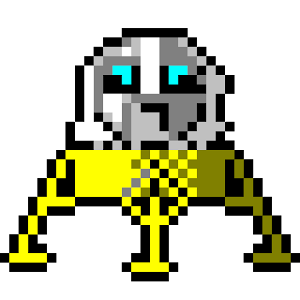
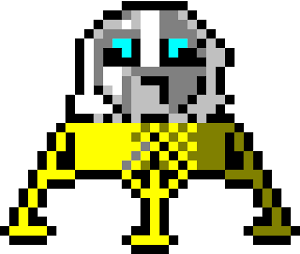
Change to white lander, add collision with bottom of canvas

diff --git a/lib/lander.js b/lib/lander.js
@@ -1,11 +1,14 @@
 function Lander(x, y, ctx) {
   this.x = x
   this.y = y
-  this.width = 20
-  this.height = 20
+  this.width = 30
+  this.height = 30
   this.ctx = ctx
   this.dx = 0
   this.dy = 0
+  this.gravitationalConstant = 0.005
+  this.propulsionConstant = 0.01
+  this.landed = false
   this.fuelAmount = 1000
   this.rotationAmount = 0
   this.img = this.getLanderImage()
@@ -13,7 +16,7 @@ function Lander(x, y, ctx) {
 
 Lander.prototype.getLanderImage = function(){
   var image = new Image()
-  image.src = 'img/lander.png'
+  image.src = 'img/lander-white.png'
   return image
 }
 
@@ -27,20 +30,19 @@ Lander.prototype.draw = function(){
 }
 
 Lander.prototype.move = function(activeControls){
-  this.moveFromGravity()
+  if (!this.landed) this.moveFromGravity()
   this.rotate(activeControls)
   this.moveFromPropulsion(activeControls)
 }
 
 Lander.prototype.moveFromGravity = function(){
-  this.dy += 0.01
-  this.y += this.dy
+  this.dy += this.gravitationalConstant
 }
 
 Lander.prototype.moveFromPropulsion = function(activeControls){
   if (activeControls.launch) {
-    this.dy -= 0.03 * Math.cos(this.rotationAmount * (Math.PI / 180))
-    this.dx += 0.03 * Math.sin(this.rotationAmount * (Math.PI / 180))
+    this.dy -= this.propulsionConstant * Math.cos(this.rotationAmount * (Math.PI / 180))
+    this.dx += this.propulsionConstant * Math.sin(this.rotationAmount * (Math.PI / 180))
     this.depleteFuel()
   }
   this.y += this.dy

diff --git a/lib/collisions.js b/lib/collisions.js
@@ -1,9 +1,19 @@
-function Collisions(lander){
+function Collisions(canvas, lander){
+  this.canvas = canvas
   this.lander = lander
 }
 
 Collisions.prototype.testForCollisions = function(){
-  console.log("Testing...")
+  this.testLanding()
+}
+
+Collisions.prototype.testLanding = function(){
+  if (this.lander.y + this.lander.height/2 > this.canvas.height) {
+    this.lander.landed = true
+    this.lander.dy = 0
+    this.lander.dx = 0
+    console.log("You landed.")
+  }
 }
 
 module.exports = Collisions

diff --git a/lib/index.js b/lib/index.js
@@ -8,7 +8,7 @@ var ctx = canvas.getContext('2d')
 
 var userControls = new UserControls()
 var lander = new Lander(50, 50, ctx)
-var collisions = new Collisions(lander)
+var collisions = new Collisions(canvas, lander)
 var world = new World(canvas, ctx, userControls, lander, collisions)
 
 world.runAnimationLoop()

diff --git a/index.html b/index.html
@@ -6,7 +6,7 @@
   <link rel="stylesheet" href="styles/styles.css">
 </head>
 <body>
-  <canvas id="canvas" width="500" height="500"></canvas>
+  <canvas id="canvas" width="1000" height="750"></canvas>
 
   <script src="main.bundle.js"></script>
 </body>

diff --git a/styles/styles.css b/styles/styles.css
@@ -1,4 +1,5 @@
 #canvas {
+  background-color: black;
   border: 1px dashed;
   margin: auto;
   display: block;
